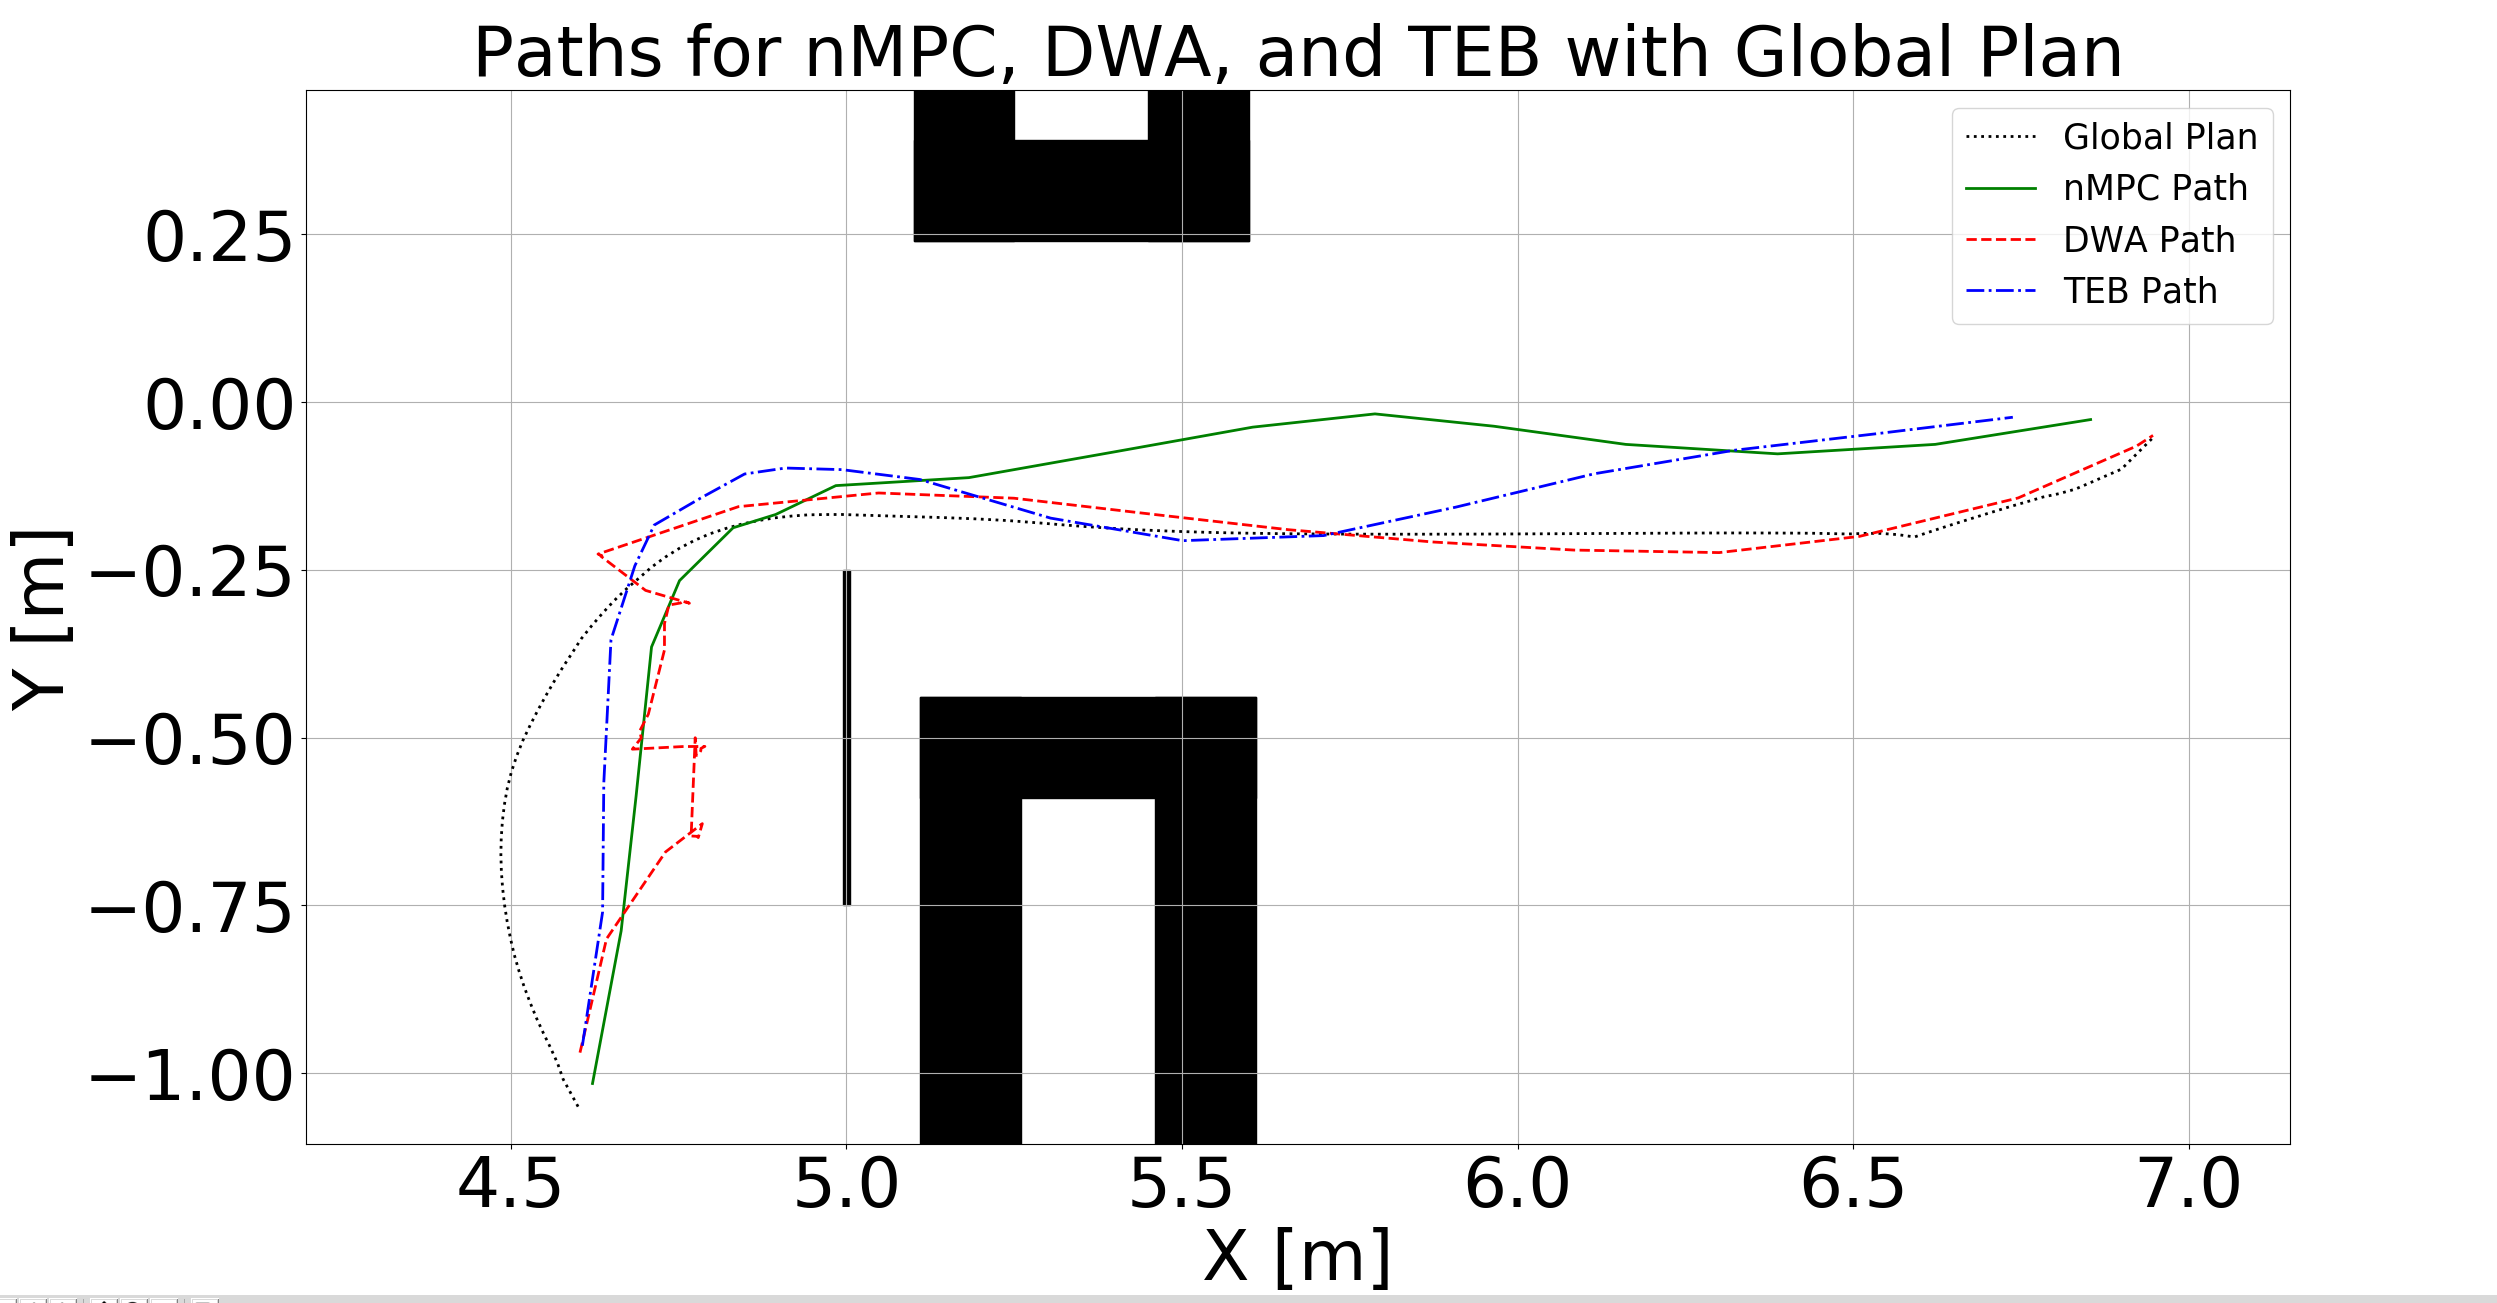
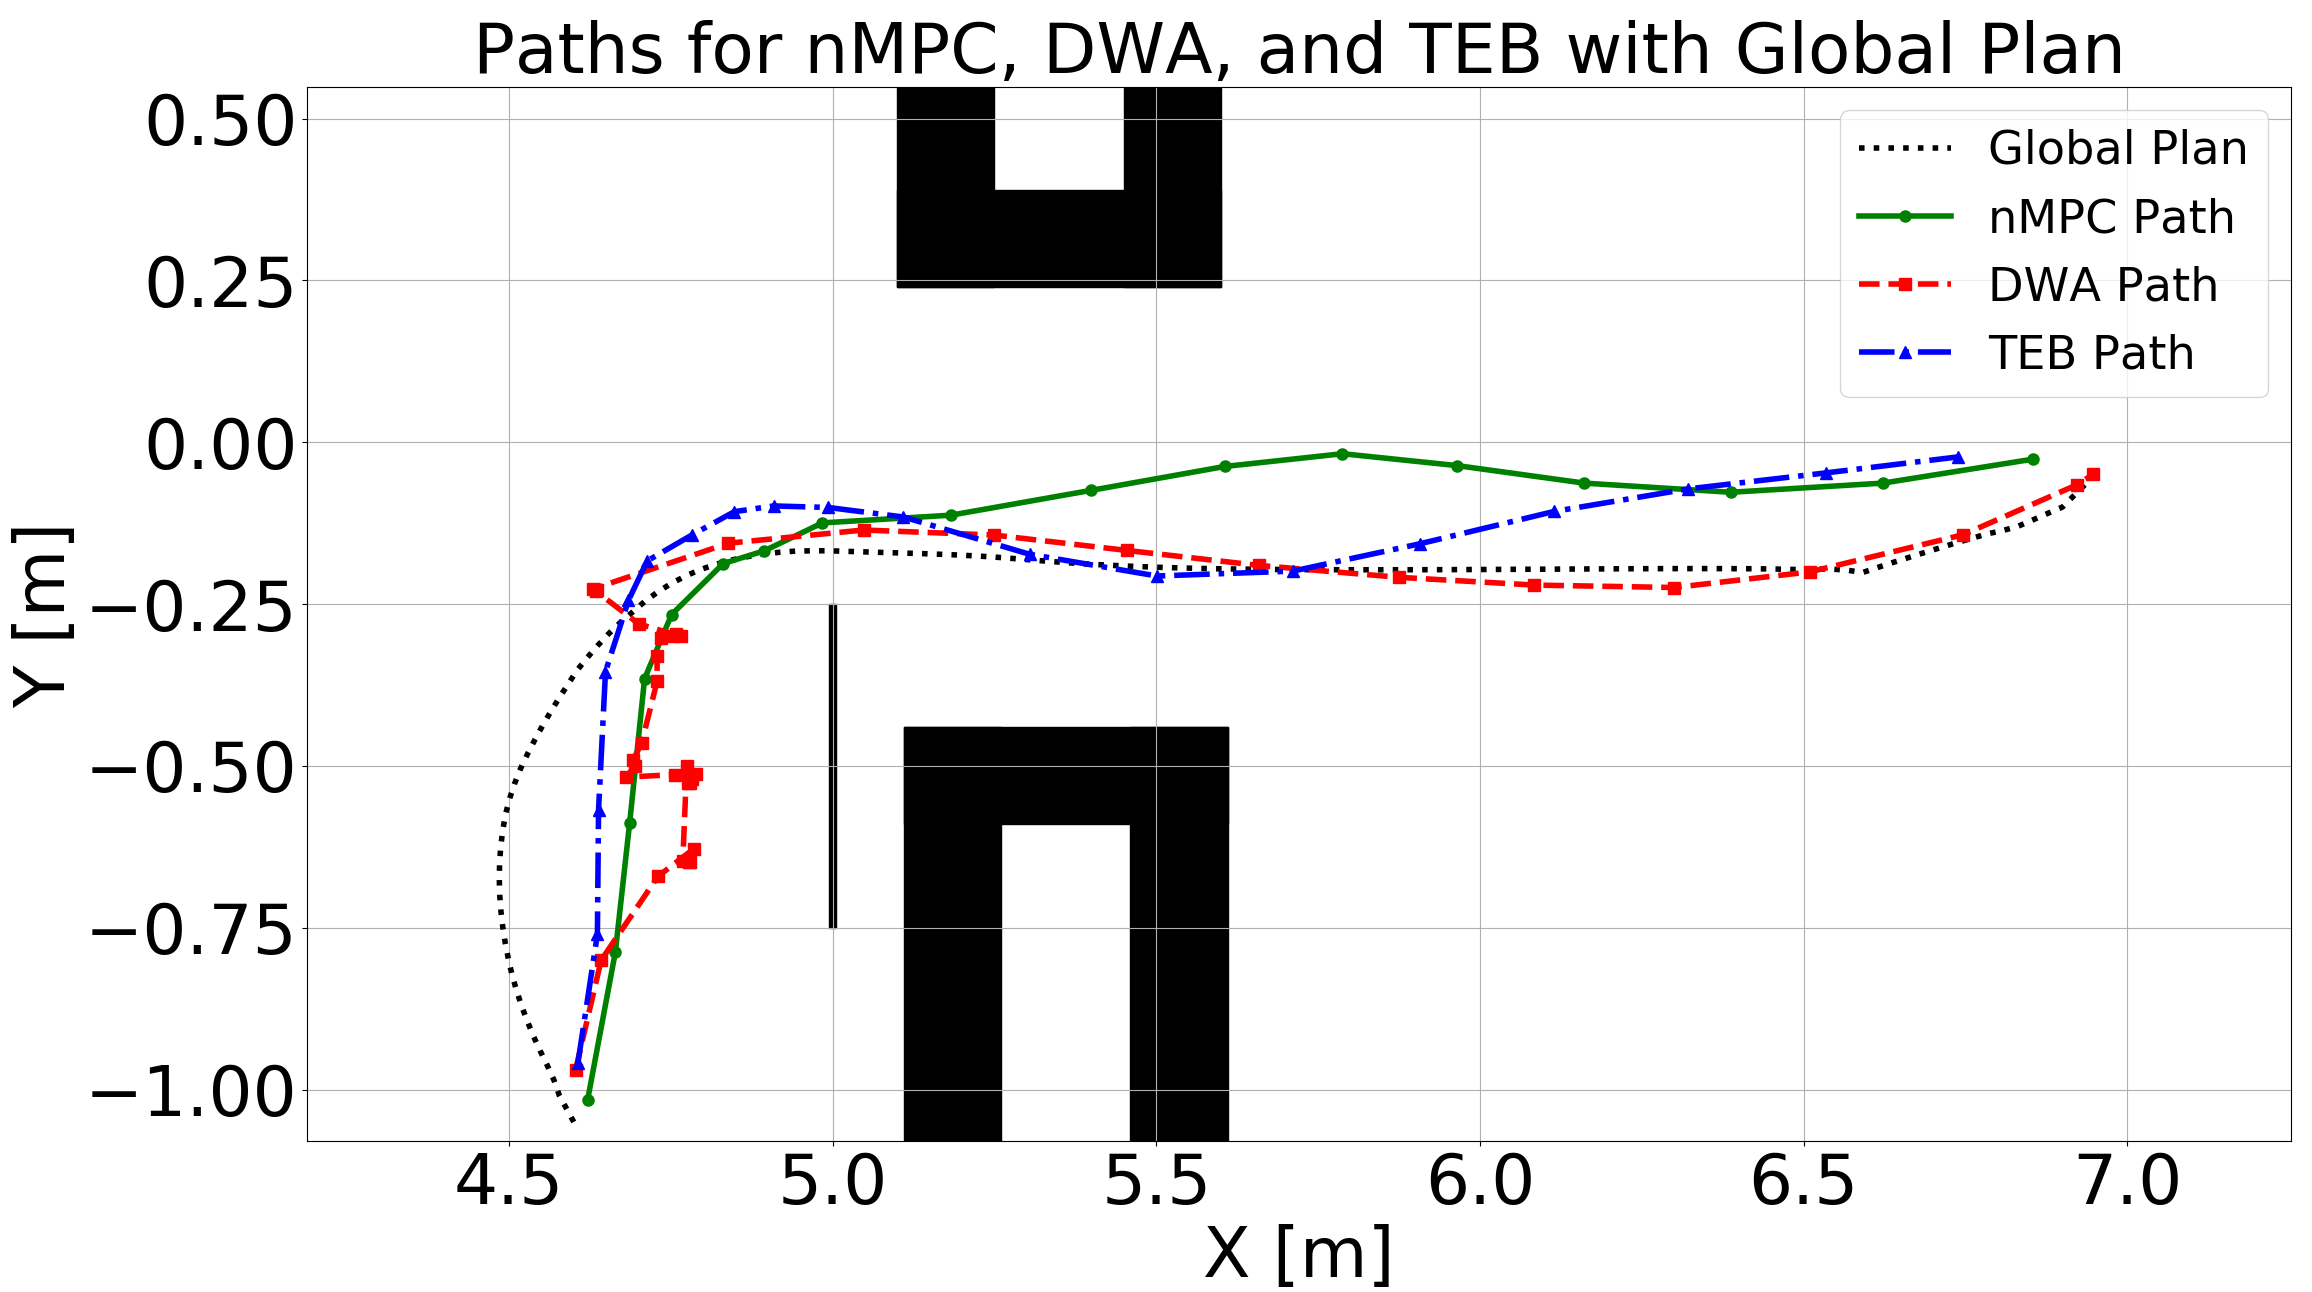
New better plots

diff --git a/src/amr_control/scripts/plot_paths.py b/src/amr_control/scripts/plot_paths.py
@@ -10,13 +10,13 @@ import roslib
 
 # ------------------------- CONFIGURABLE PARAMETERS -------------------------
 # ROSBAG file paths
-# bag_nmpc_filename = 'recorded_data_nMPC_15.bag'
-# bag_dwa_filename = 'recorded_data_DWA_10.bag'
-# bag_teb_filename = 'recorded_data_TEB_2.bag'
+bag_nmpc_filename = 'recorded_data_nMPC_15.bag'
+bag_dwa_filename = 'recorded_data_DWA_10.bag'
+bag_teb_filename = 'recorded_data_TEB_2.bag'
 
-bag_nmpc_filename = 'recorded_data_nMPC_17.bag'
-bag_dwa_filename = 'recorded_data_DWA_12.bag'
-bag_teb_filename = 'recorded_data_TEB_6.bag'
+# bag_nmpc_filename = 'recorded_data_nMPC_16.bag'
+# bag_dwa_filename = 'recorded_data_DWA_12.bag'
+# bag_teb_filename = 'recorded_data_TEB_6.bag'
 
 
 # ROS topics for cmd_vel (used by different planners)
@@ -122,7 +122,6 @@ def calculate_position_on_circle(center_x, center_y, radius, angle_deg):
     return x, y
 
 # ------------------------- MAIN PROGRAM -------------------------
-# ------------------------- MAIN PROGRAM -------------------------
 def main():
     # Path to the ROSBAG directory
     amr_control_path = roslib.packages.get_pkg_dir('amr_control')
@@ -226,7 +225,7 @@ def main():
     bag_global.close()
 
     # Plot global plan
-    ax1.plot(global_path_x, global_path_y, label='Global Plan', color='black', linestyle=':', linewidth=2)
+    ax1.plot(global_path_x, global_path_y, label='Global Plan', color='black', linestyle=':', linewidth=4)
 
     # Extracting the paths for nMPC, DWA, and TEB
     nmpc_path_x, nmpc_path_y = [], []
@@ -251,10 +250,11 @@ def main():
         teb_path_x, teb_path_y = process_path_data(msg)
     bag_teb.close()
 
-    # Plotting the paths
-    ax1.plot(nmpc_path_x, nmpc_path_y, label='nMPC Path', color='green', linestyle='-', linewidth=2)
-    ax1.plot(dwa_path_x, dwa_path_y, label='DWA Path', color='red', linestyle='--', linewidth=2)
-    ax1.plot(teb_path_x, teb_path_y, label='TEB Path', color='blue', linestyle='-.', linewidth=2)
+    # Plotting the paths with thicker lines and a unique symbol for each path
+    ax1.plot(nmpc_path_x, nmpc_path_y, label='nMPC Path', color='green', linestyle='-', linewidth=4, marker='o', markersize=8)
+    ax1.plot(dwa_path_x, dwa_path_y, label='DWA Path', color='red', linestyle='--', linewidth=4, marker='s', markersize=8)
+    ax1.plot(teb_path_x, teb_path_y, label='TEB Path', color='blue', linestyle='-.', linewidth=4, marker='^', markersize=8)
+
 
     # Adjust font sizes using global parameters
     ax1.set_xlabel('X [m]', fontsize=axis_label_fontsize)
@@ -269,54 +269,54 @@ def main():
     plt.grid(True)
     plt.show()
 
+   # Create figure with three subplots (CTE, Computation Time, Arrival Time)
+    # Create figure with three subplots in a single row
+    fig, ax = plt.subplots(1, 3, figsize=(15, 5))
+
+    planners = ['nMPC', 'DWA', 'TEB']
+    axis_label_fontsize_2 = axis_label_fontsize / 2
+    tick_label_fontsize_2 = tick_label_fontsize / 2
+
     # ------------------------- CROSS-TRACKING ERROR -------------------------
-    # 3. Calculate the cross-tracking error (CTE) for each planner
+    # Calculate the cross-tracking error (CTE) for each planner
     nmpc_cte = calculate_cross_tracking_error((global_path_x, global_path_y), (nmpc_path_x, nmpc_path_y))
     dwa_cte = calculate_cross_tracking_error((global_path_x, global_path_y), (dwa_path_x, dwa_path_y))
     teb_cte = calculate_cross_tracking_error((global_path_x, global_path_y), (teb_path_x, teb_path_y))
 
-    print(f"nMPC Cross-Tracking Error: {nmpc_cte:.2f} meters")
-    print(f"DWA Cross-Tracking Error: {dwa_cte:.2f} meters")
-    print(f"TEB Cross-Tracking Error: {teb_cte:.2f} meters")
-
-    # 4. Plot the cross-tracking errors in a bar plot
-    fig, ax2 = plt.subplots()
-    planners = ['nMPC', 'DWA', 'TEB']
     cte_values = [nmpc_cte, dwa_cte, teb_cte]
 
-    ax2.bar(planners, cte_values, color=['green', 'red', 'blue'])
+    # Plot CTE in the first subplot
+    ax[0].bar(planners, cte_values, color=['green', 'red', 'blue'])
+    ax[0].set_xlabel('Planners', fontsize=axis_label_fontsize_2)
+    ax[0].set_ylabel('Cross-Tracking Error [m]', fontsize=axis_label_fontsize_2)
+    ax[0].set_title('Cross-Tracking Error Comparison', fontsize=axis_label_fontsize_2)
+    ax[0].tick_params(axis='both', which='major', labelsize=tick_label_fontsize_2)
+    ax[0].grid(True)
 
-    # Adjust font sizes for the bar plot
-    ax2.set_xlabel('Planners', fontsize=axis_label_fontsize)
-    ax2.set_ylabel('Cross-Tracking Error [m]', fontsize=axis_label_fontsize)
-    ax2.set_title('Cross-Tracking Error Comparison', fontsize=axis_label_fontsize)
-    ax2.tick_params(axis='both', which='major', labelsize=tick_label_fontsize)
-
-    plt.grid(True)
-    plt.show()
-    
-    # ------------------------- Computation Time Plot -------------------------
-    fig, ax3 = plt.subplots()
+    # ------------------------- COMPUTATION TIME -------------------------
     computation_times = [nmpc_avg_computation_time * 1000, dwa_avg_computation_time * 1000, teb_avg_computation_time * 1000]
 
-    ax3.bar(planners, computation_times, color=['green', 'red', 'blue'])
-    ax3.set_xlabel('Planners', fontsize=axis_label_fontsize)
-    ax3.set_ylabel('Computation Time [ms]', fontsize=axis_label_fontsize)
-    ax3.set_title('Computation Time Comparison', fontsize=axis_label_fontsize)
-    ax3.tick_params(axis='both', which='major', labelsize=tick_label_fontsize)
-    plt.grid(True)
-    plt.show()
+    # Plot Computation Time in the second subplot
+    ax[1].bar(planners, computation_times, color=['green', 'red', 'blue'])
+    ax[1].set_xlabel('Planners', fontsize=axis_label_fontsize_2)
+    ax[1].set_ylabel('Computation Time [ms]', fontsize=axis_label_fontsize_2)
+    ax[1].set_title('Computation Time Comparison', fontsize=axis_label_fontsize_2)
+    ax[1].tick_params(axis='both', which='major', labelsize=tick_label_fontsize_2)
+    ax[1].grid(True)
 
-    # ------------------------- PLOT ARRIVAL TIMES -------------------------
-    fig, ax4 = plt.subplots()
+    # ------------------------- ARRIVAL TIME -------------------------
     arrival_times = [nmpc_total_time, dwa_total_time, teb_total_time]
 
-    ax4.bar(planners, arrival_times, color=['green', 'red', 'blue'])
-    ax4.set_xlabel('Planners', fontsize=axis_label_fontsize)
-    ax4.set_ylabel('Total Duration [s]', fontsize=axis_label_fontsize)
-    ax4.set_title('Arrival Time Comparison', fontsize=axis_label_fontsize)
-    ax4.tick_params(axis='both', which='major', labelsize=tick_label_fontsize)
-    plt.grid(True)
+    # Plot Arrival Time in the third subplot
+    ax[2].bar(planners, arrival_times, color=['green', 'red', 'blue'])
+    ax[2].set_xlabel('Planners', fontsize=axis_label_fontsize_2)
+    ax[2].set_ylabel('Total Duration [s]', fontsize=axis_label_fontsize_2)
+    ax[2].set_title('Arrival Time Comparison', fontsize=axis_label_fontsize_2)
+    ax[2].tick_params(axis='both', which='major', labelsize=tick_label_fontsize_2)
+    ax[2].grid(True)
+
+    # Adjust layout and show the combined plot
+    plt.tight_layout()
     plt.show()
 
 
